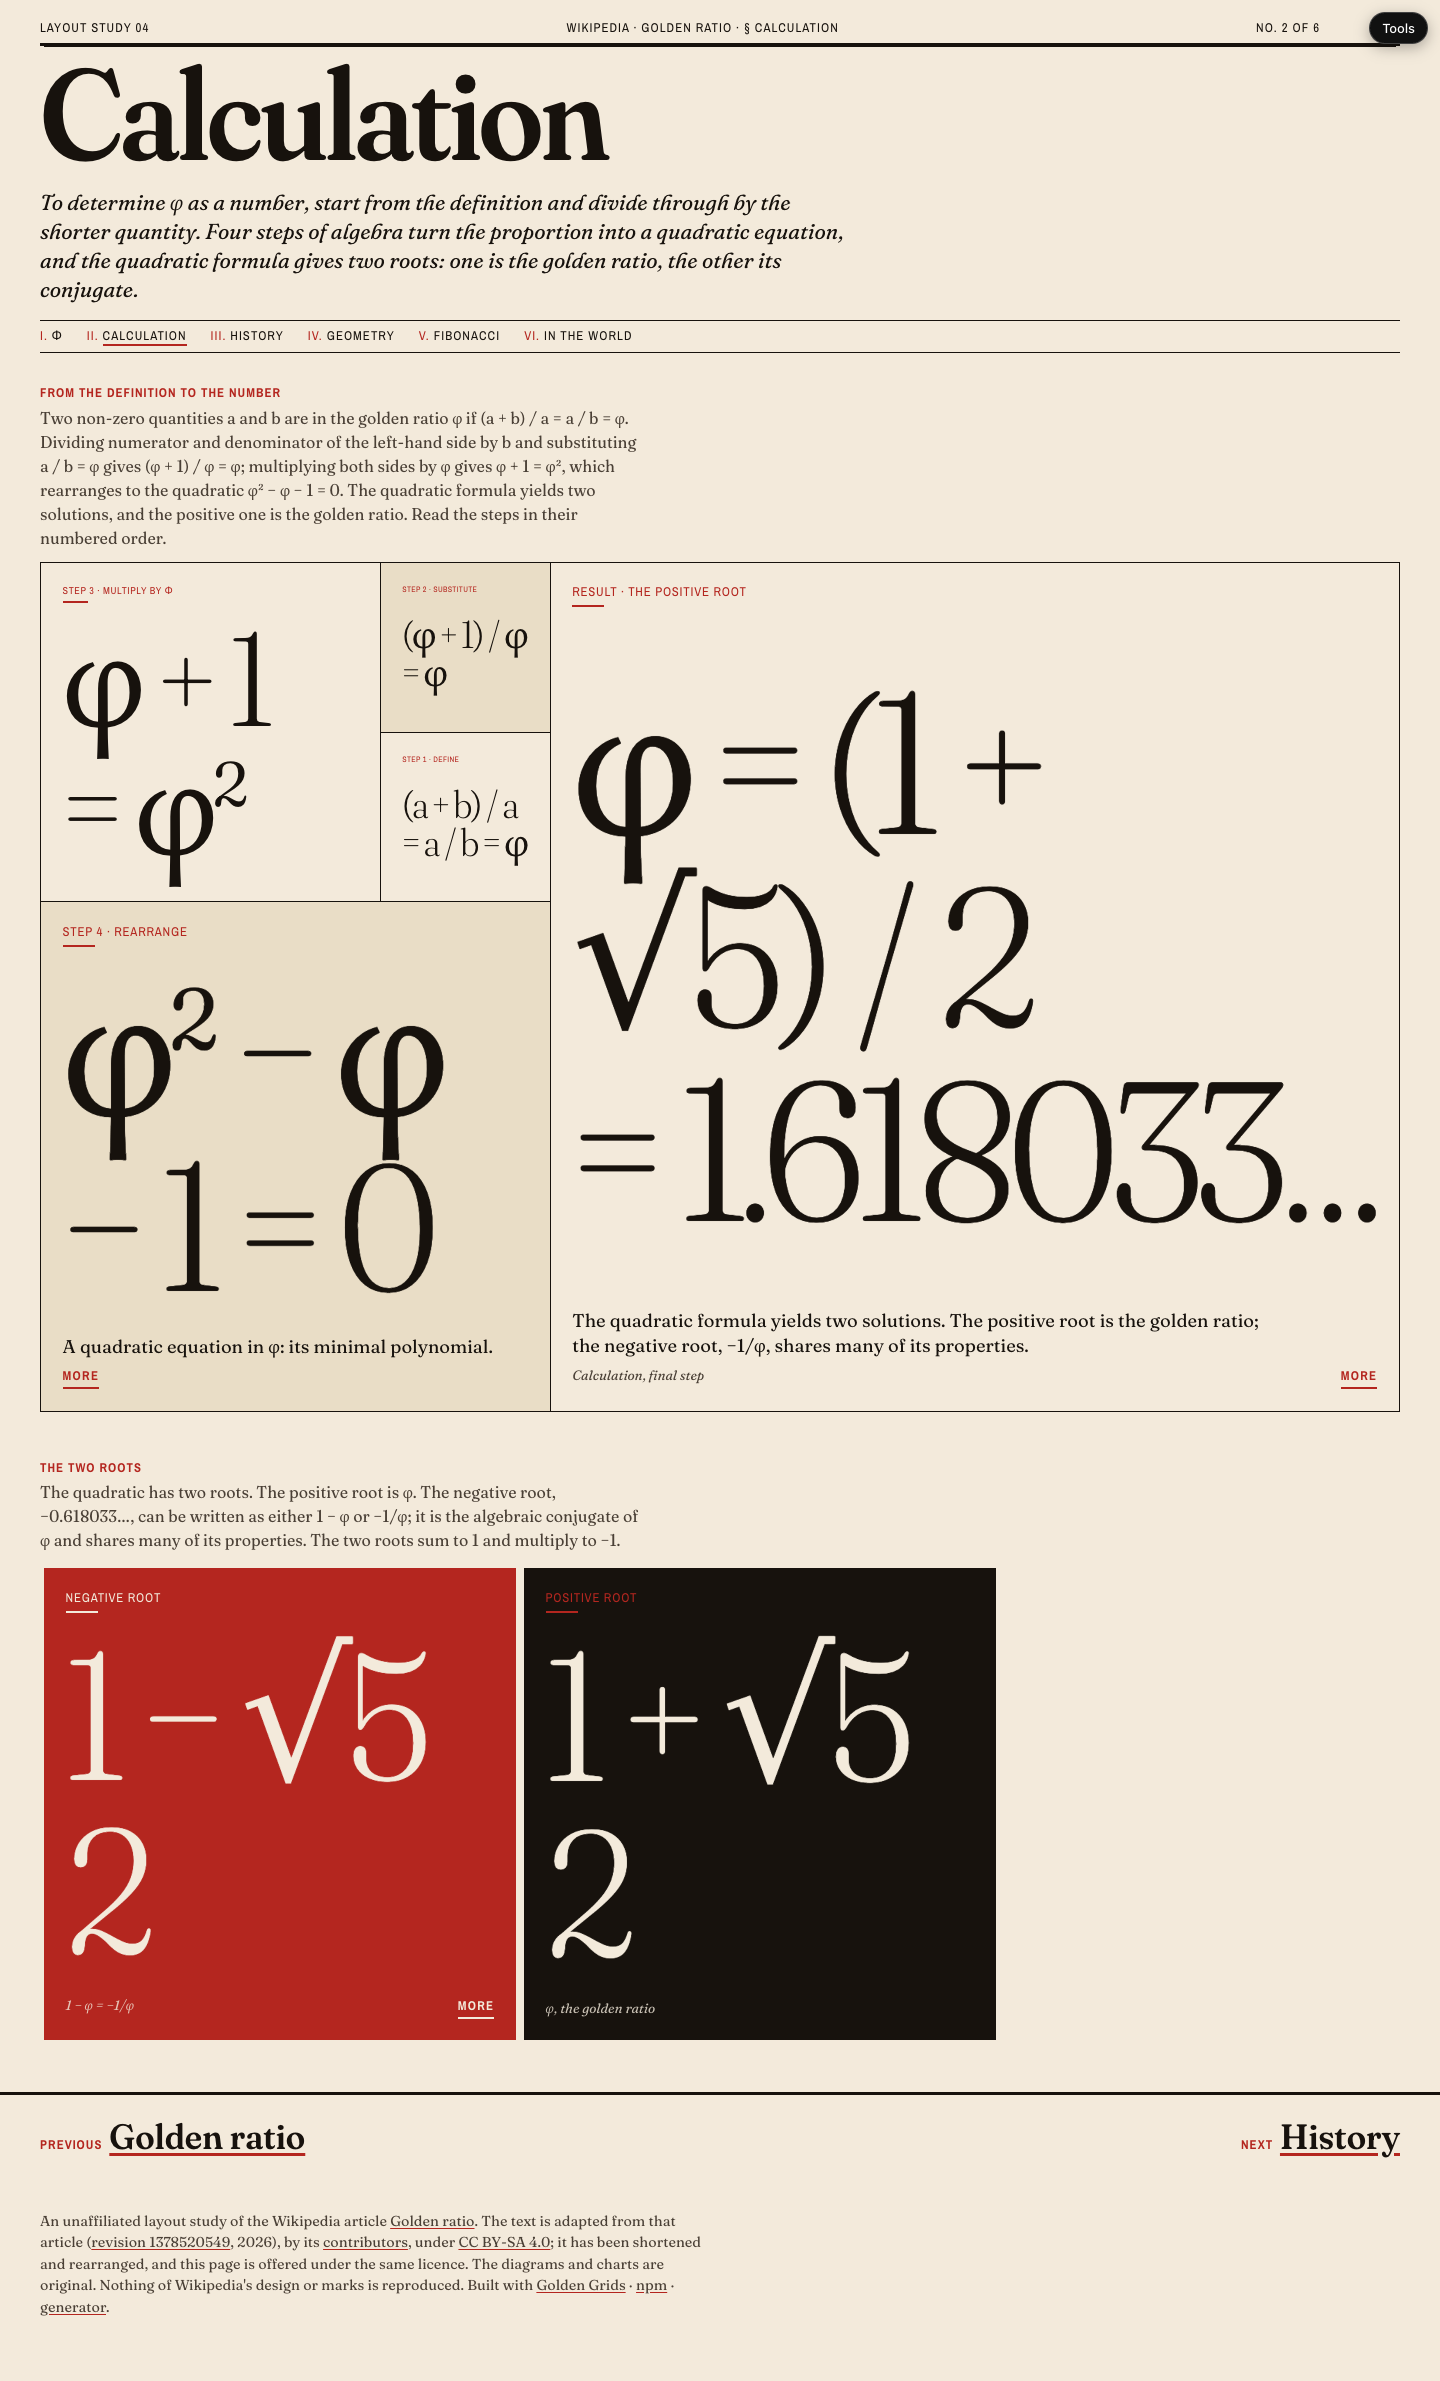
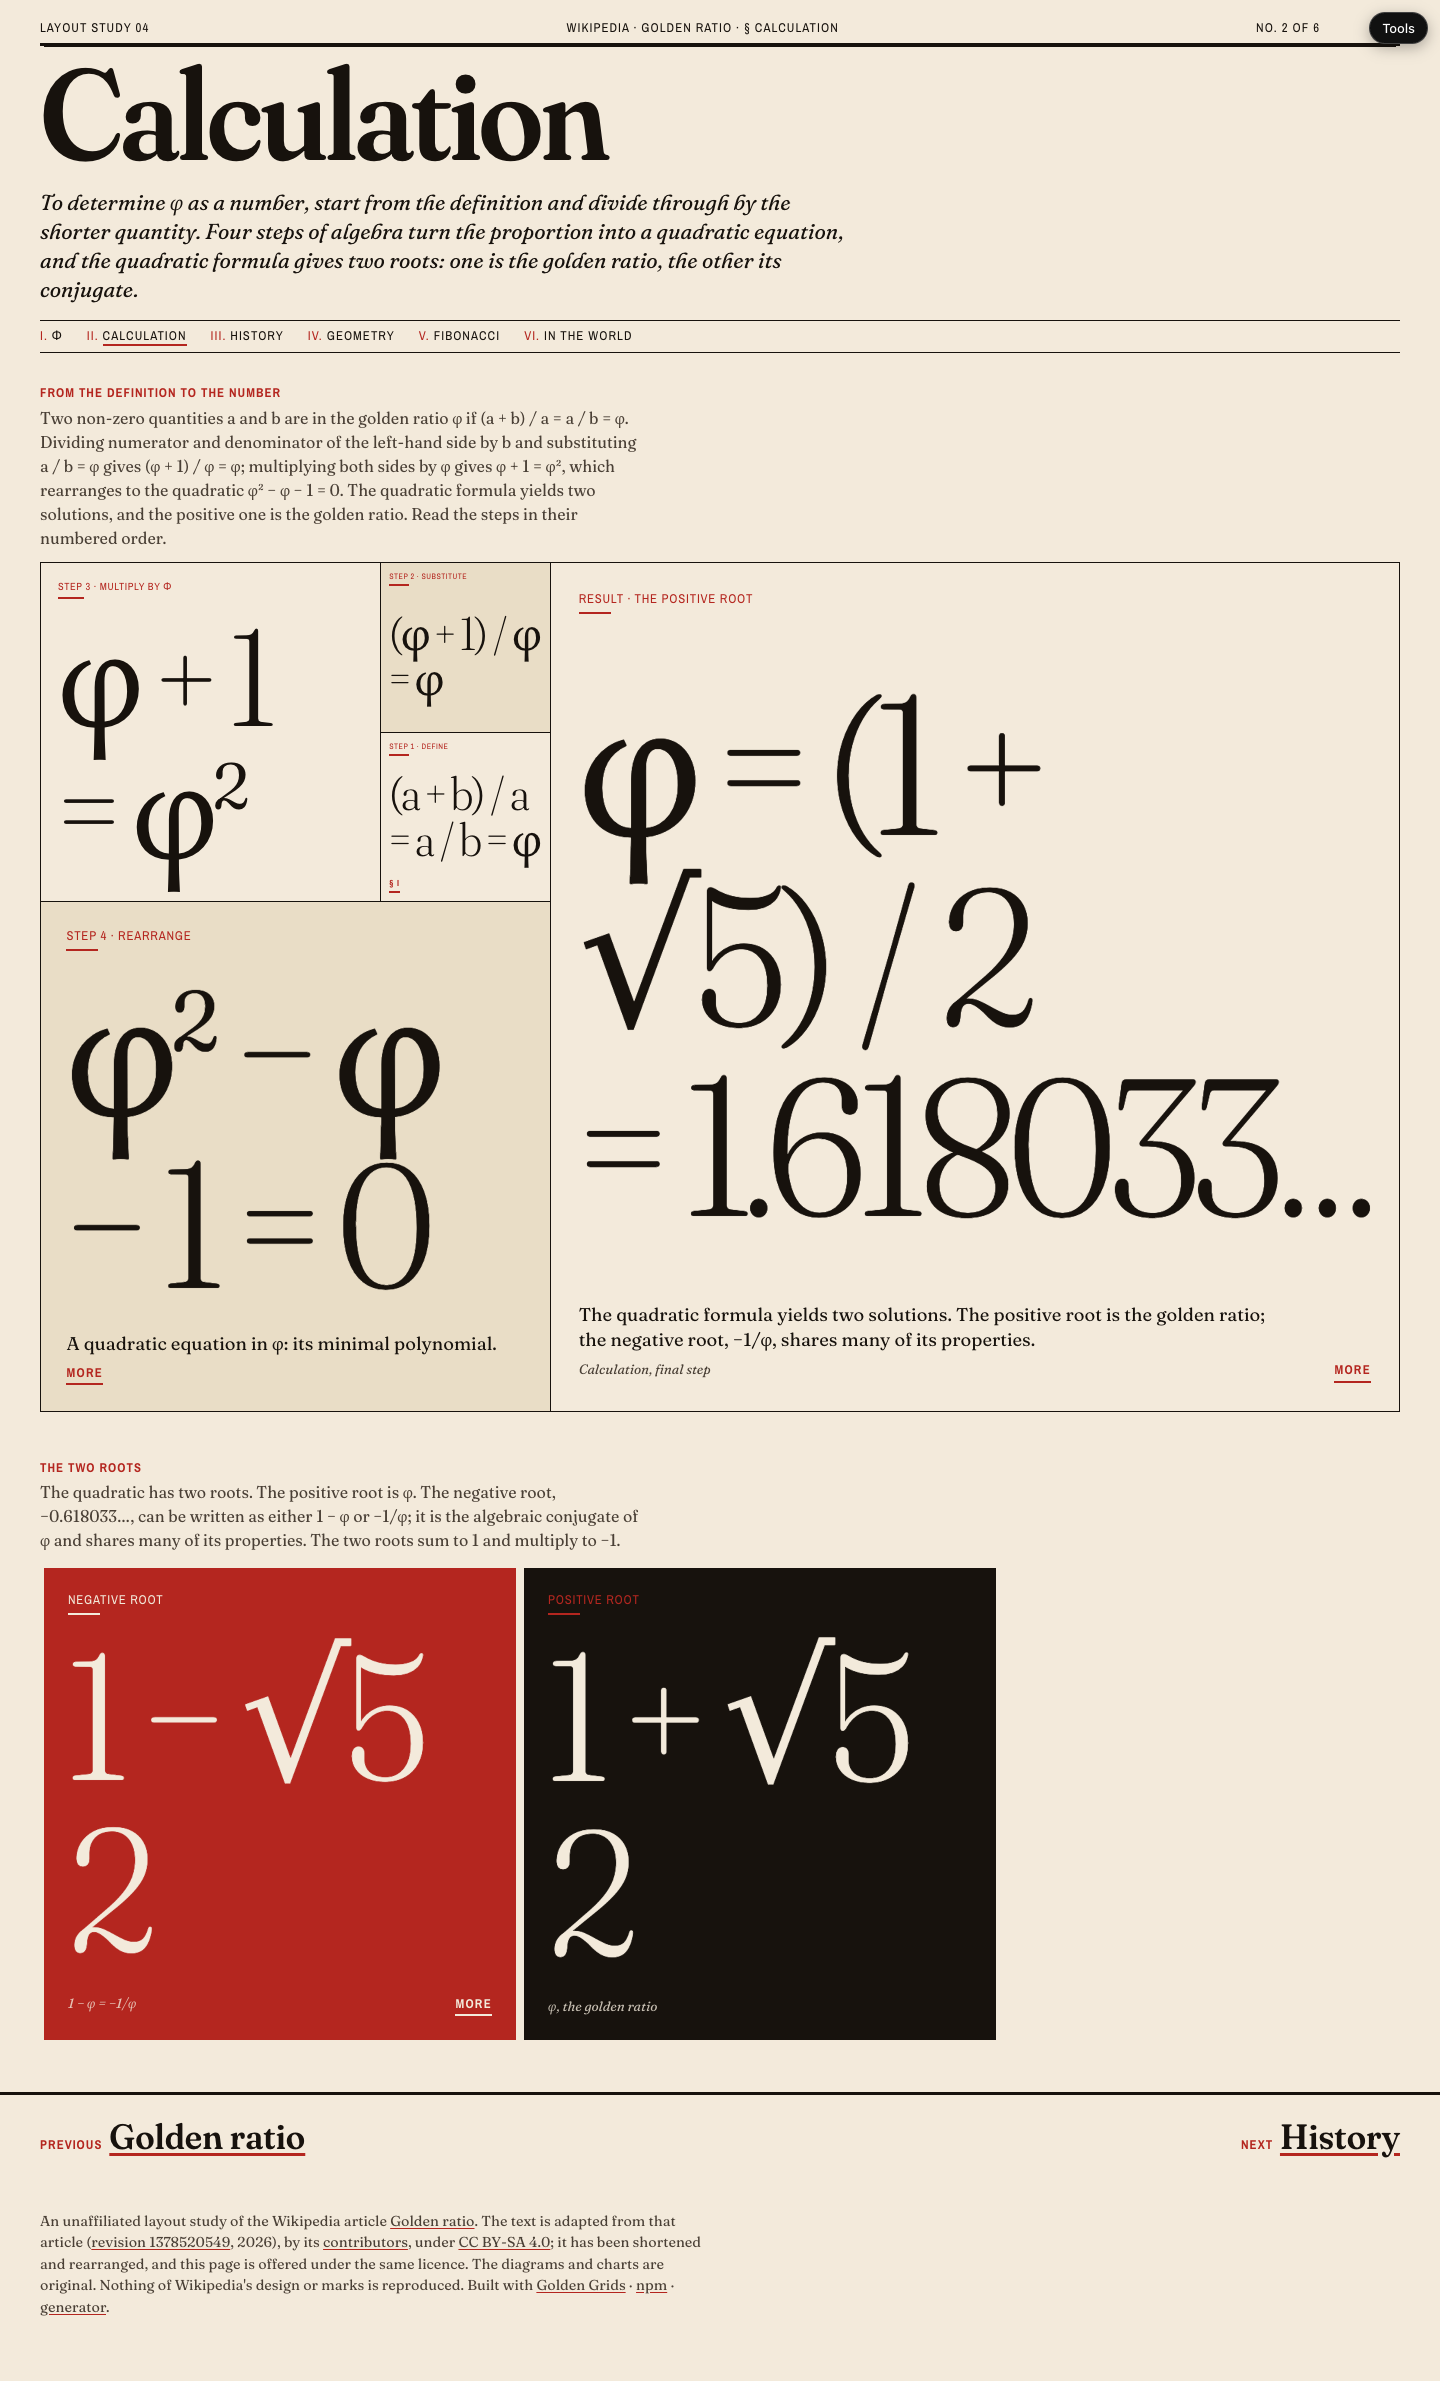
fix: no transitions under reduced motion; the fitted line keeps its room
iOS Reduce Motion made the display type tiny. The template's rule set every
transition to 0.01ms, and the fit measures synchronously after each
font-size write, so it read the old size and converged on its floor. The
rule is now transition: none, and .fit pins it.

Also: box padding is a percentage of the square so a 17px square keeps its
digit; the fitted line keeps a third of the box and the body copy gives way,
disappearing below 240px.

diff --git a/src/styles.css b/src/styles.css
@@ -32,9 +32,17 @@ body {
 }
 a { color: inherit; text-decoration: underline; text-decoration-color: var(--red); text-underline-offset: 0.12em; }
 :focus-visible { outline: 3px solid var(--red); outline-offset: 2px; }
+/* Reduced motion. Nothing on these pages animates, so the rule is `none`,
+   not the common 0.01ms trick. The trick turns every style write into a
+   transition, and the fitted type is sized by writing font-size and
+   measuring synchronously: under a 0.01ms transition the measurement reads
+   the OLD size, the binary search converges on its 8px floor, and the
+   display type comes out tiny. That is what iOS Reduce Motion did here. */
 @media (prefers-reduced-motion: reduce) {
-  *, *::before, *::after { animation-duration: 0.01ms !important; transition-duration: 0.01ms !important; scroll-behavior: auto !important; }
+  *, *::before, *::after { animation: none !important; transition: none !important; scroll-behavior: auto !important; }
 }
+/* And the fitted line never transitions, whatever else is set. */
+.fit { transition: none !important; }
 
 .skip { position: absolute; left: 0; top: 0; padding: 0.5rem 1rem; background: var(--ink); color: var(--paper); transform: translateY(-120%); }
 .skip:focus { transform: none; }
@@ -101,7 +109,7 @@ a { color: inherit; text-decoration: underline; text-decoration-color: var(--red
 .box {
   position: absolute; inset: 0;
   display: flex; flex-direction: column;
-  padding: clamp(8px, 2.4cqmin, 28px);
+  padding: min(28px, 5%); /* a percentage of the square's own width, so a 17px square keeps room for its digit */
   overflow: hidden;
   container-type: size;
 }
@@ -120,7 +128,9 @@ a { color: inherit; text-decoration: underline; text-decoration-color: var(--red
    type; the hidden state lasts as long as the fonts take, and no longer
    than the three seconds `display=block` allows before the fallback shows. */
 .fit:not([data-fit]), html:not([data-fonts]) .fit, html:not([data-fonts]) .masthead__title, html:not([data-fonts]) .next { visibility: hidden; }
-.box__fit { flex: 1 1 auto; min-height: 0; position: relative; display: flex; align-items: center; }
+/* The fitted line keeps at least a third of the box; the supporting matter
+   below it gives way first, and is removed altogether in a short box. */
+.box__fit { flex: 1 0 auto; min-height: 34%; position: relative; display: flex; align-items: center; }
 .box__fit--top { align-items: flex-start; }
 .box__fit--end { align-items: flex-end; }
 .fit {
@@ -137,7 +147,8 @@ a { color: inherit; text-decoration: underline; text-decoration-color: var(--red
 .fit--italic { font-style: italic; font-weight: 400; }
 .fit--caps { font-family: var(--label); font-variation-settings: normal; font-weight: 700; text-transform: uppercase; letter-spacing: 0.02em; line-height: 0.9; }
 /* Body copy inside a box: sized to the box, capped either way. */
-.box__body { margin: 0.5em 0 0; font-size: clamp(0.78rem, 4.2cqmin, 1.15rem); line-height: 1.35; max-width: var(--measure); }
+.box__body { margin: 0.5em 0 0; font-size: clamp(0.78rem, 4.2cqmin, 1.15rem); line-height: 1.35; max-width: var(--measure); flex: 0 1 auto; min-height: 0; overflow: hidden; }
+@container (max-height: 240px) { .box__body { display: none; } }
 .box__body p { margin: 0 0 0.5em; }
 .box__body p:last-child { margin-bottom: 0; }
 .box__foot { margin-top: auto; padding-top: 0.5em; font-size: clamp(0.55rem, 3.4cqmin, 0.8rem); display: flex; justify-content: space-between; gap: 1em; align-items: baseline; }

diff --git a/src/lib/fit.tsx b/src/lib/fit.tsx
@@ -15,6 +15,10 @@ import { useLayoutEffect, useRef, type ElementType, type ReactNode } from "react
  * been fitted once (styles.css keys off `data-fit` and `html[data-fonts]`),
  * which is what stops the large type from flashing: without it the fallback
  * face is painted at one size and the real face at another.
+ *
+ * The element must not have a CSS transition on font-size, however short:
+ * the measurement after each write is synchronous and would read the
+ * pre-transition size. styles.css pins `.fit { transition: none }`.
  */
 export function Fit({
   as: Tag = "span",

diff --git a/README.md b/README.md
@@ -134,6 +134,15 @@ load, which is worst for a reader who has asked for reduced motion. Nothing
 on these pages animates; the reduced-motion switch in the tools panel is
 inherited from the template and has nothing here to switch.
 
+**Reduce Motion on iOS broke the fit, and the fix is in the CSS.** The
+template's reduced-motion rule used the common trick of setting every
+transition to 0.01ms. A transition of any length on `font-size` means the
+synchronous measurement after each write in the binary search reads the
+size before the write, so the search converges on its 8px floor and the
+display type renders tiny. Seen in a screen recording from an iPhone with
+Reduce Motion on, 2026-10-05. The rule is now `transition: none` and `.fit`
+pins it regardless. The template still carries the 0.01ms version.
+
 **The register** is old print advertising rather than the encyclopaedia:
 cream stock, one black, one red, a display serif with optical sizes
 (Fraunces, 300–700, with its soft and wonk axes at the large sizes), a
